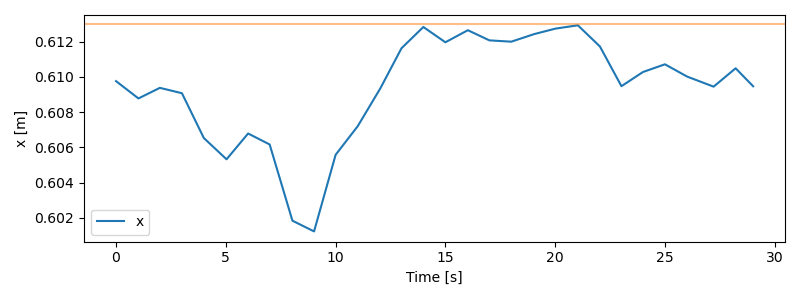
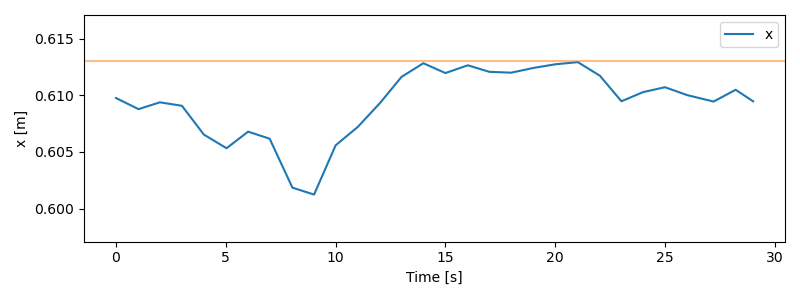
[scripts][figures][data] calculate_error.py

diff --git a/scripts/plot_Pose.py b/scripts/plot_Pose.py
@@ -18,6 +18,20 @@ def plot_Pose(file_name, topic_name, tx=None, ty=None, tz=None, rx=None, ry=None
     y = []
     z = []
 
+    # target position
+    if tx:
+        tx = float(tx)
+    else:
+        tx = 0
+    if ty:
+        ty = float(ty)
+    else:
+        ty = 0
+    if tz:
+        tz = float(tz)
+    else:
+        tz = 0
+
     # read data
     for topic, msg, t in bag.read_messages(topics=[topic_name]):
         time.append(t.to_sec())
@@ -54,12 +68,24 @@ def plot_Pose(file_name, topic_name, tx=None, ty=None, tz=None, rx=None, ry=None
         name = "data/endeffector_pose_xyz_" + file_name + ".npz"
     name = name.replace("bags/", "")
     name = name.replace(".bag", "")
-    np.savez(name, time=time, x=x, y=y, z=z)
+    np.savez(name, time=time, x=x, y=y, z=z, tx=tx, ty=ty, tz=tz)
 
     # graph
     fig_number = 3 - int(ox is not None) - int(oy is not None) - int(oz is not None)
     print(fig_number)
     fig, ax = plt.subplots(fig_number, 1, sharex=True, figsize=(8, 3*fig_number))
+
+    # range
+    if oy and oz:
+        display_range = (x.max()-x.min()) * 0.5 + 0.001
+    else:
+        display_range = np.array([x.max()-x.min(), z.max()-z.min()]).max() * 0.5 + 0.001
+    mx = (x.max()+x.min()) * 0.5
+    my = (y.max()+y.min()) * 0.5
+    mz = (z.max()+z.min()) * 0.5
+    thres = 0.01
+    if display_range < thres:
+        display_range = thres
 
     # x
     if not ox:
@@ -75,6 +101,7 @@ def plot_Pose(file_name, topic_name, tx=None, ty=None, tz=None, rx=None, ry=None
             ax[0].set_ylabel("x [m]")
             ax[0].set_xlabel("Time [s]")
             ax[0].legend()
+            ax[0].set_ylim(mx - display_range, mx + display_range)
         elif fig_number == 1:
             ax.plot(time, x, label="x")
             if tx:
@@ -86,6 +113,7 @@ def plot_Pose(file_name, topic_name, tx=None, ty=None, tz=None, rx=None, ry=None
             ax.set_ylabel("x [m]")
             ax.set_xlabel("Time [s]")
             ax.legend()
+            ax.set_ylim(mx - display_range, mx + display_range)
 
     # y
     if not oy:
@@ -100,6 +128,7 @@ def plot_Pose(file_name, topic_name, tx=None, ty=None, tz=None, rx=None, ry=None
             ax[1].set_ylabel("y [m]")
             ax[1].set_xlabel("Time [s]")
             ax[1].legend()
+            ax[1].set_ylim(my - display_range, my + display_range)
         elif fig_number == 1:
             ax.plot(time, y, label="y")
             if ty:
@@ -111,6 +140,7 @@ def plot_Pose(file_name, topic_name, tx=None, ty=None, tz=None, rx=None, ry=None
             ax.set_ylabel("y [m]")
             ax.set_xlabel("Time [s]")
             ax.legend()
+            ax.set_ylim(my - display_range, my + display_range)
 
     # z
     if not oz:
@@ -125,6 +155,7 @@ def plot_Pose(file_name, topic_name, tx=None, ty=None, tz=None, rx=None, ry=None
             ax[2].set_ylabel("z [m]")
             ax[2].set_xlabel("Time [s]")
             ax[2].legend()
+            ax[2].set_ylim(mz - display_range, mz + display_range)
         elif fig_number == 1:
             ax.plot(time, z, label="z")
             if tz:
@@ -135,7 +166,8 @@ def plot_Pose(file_name, topic_name, tx=None, ty=None, tz=None, rx=None, ry=None
                     ax[2].axhspan(tz-rz, tz+rz, color="C1", alpha=0.2)
             ax.set_ylabel("z [m]")
             ax.set_xlabel("Time [s]")
-            ax.legend()            
+            ax.legend()
+            ax.set_ylim(mz - display_range, mz + display_range)
 
     plt.tight_layout()
     plt.show()    

diff --git a/scripts/calculate_error.py b/scripts/calculate_error.py
@@ -1,0 +1,61 @@
+#!/usr/bin/env python3
+import numpy as np
+import matplotlib.pyplot as plt
+from matplotlib.collections import LineCollection
+from matplotlib.patches import Circle
+from geometry_msgs.msg import Pose, PoseStamped
+import argparse
+import os
+
+def calculate_error(file_name, mode=None):
+    file_path = os.path.normpath(os.path.join(os.getcwd(), file_name))
+    if mode:
+        mode = int(mode)
+
+    #read data from npz file
+    data = np.load(file_path)
+    time = data["time"]
+    x = data["x"]
+    y = data["y"]
+    z = data["z"]
+    l = np.array([len(x), len(y), len(z)]).min()
+    tx = data["tx"]
+    ty = data["ty"]
+    tz = data["tz"]
+
+    if mode == 1:
+        dx = np.std(x)
+        dy = np.std(y)
+        dz = np.std(z)
+
+    else:
+        if tx == None:
+            tx = 0
+        if ty == None:
+            ty = 0
+        if tz == None:
+            tz = 0
+        print("target", tx, ty, tz)
+        tmp_x = 0
+        tmp_y = 0
+        tmp_z = 0
+        for i in range(l):
+            tmp_x += (x[i] - tx) ** 2
+            tmp_y += (y[i] - ty) ** 2
+            tmp_z += (z[i] - tz) ** 2
+        dx = np.sqrt(tmp_x / l)
+        dy = np.sqrt(tmp_y / l)
+        dz = np.sqrt(tmp_z / l)
+
+    print("dx:", dx)
+    print("dy:", dy)
+    print("dz:", dz)
+
+if __name__ == "__main__":
+    parser = argparse.ArgumentParser()
+    parser.add_argument("file_name", help="rosbag file")
+    parser.add_argument("-m", "--mode", help="mode (1:SD)")
+    args = parser.parse_args()
+    file_name = args.file_name
+    mode = args.mode
+    calculate_error(file_name, mode)
